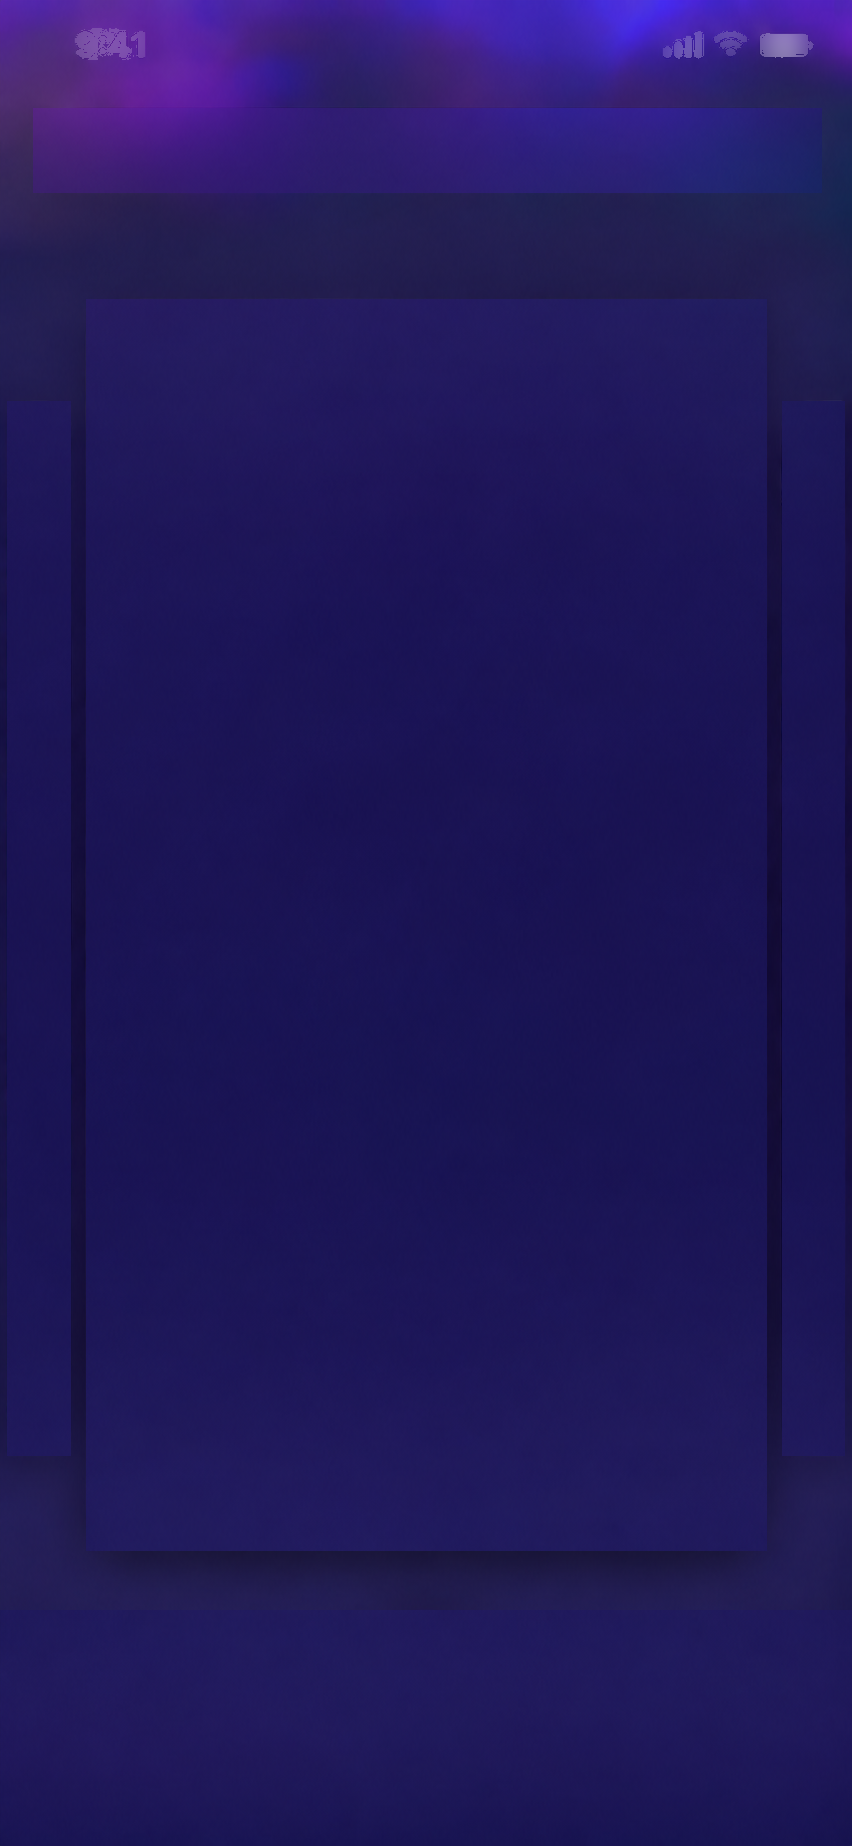
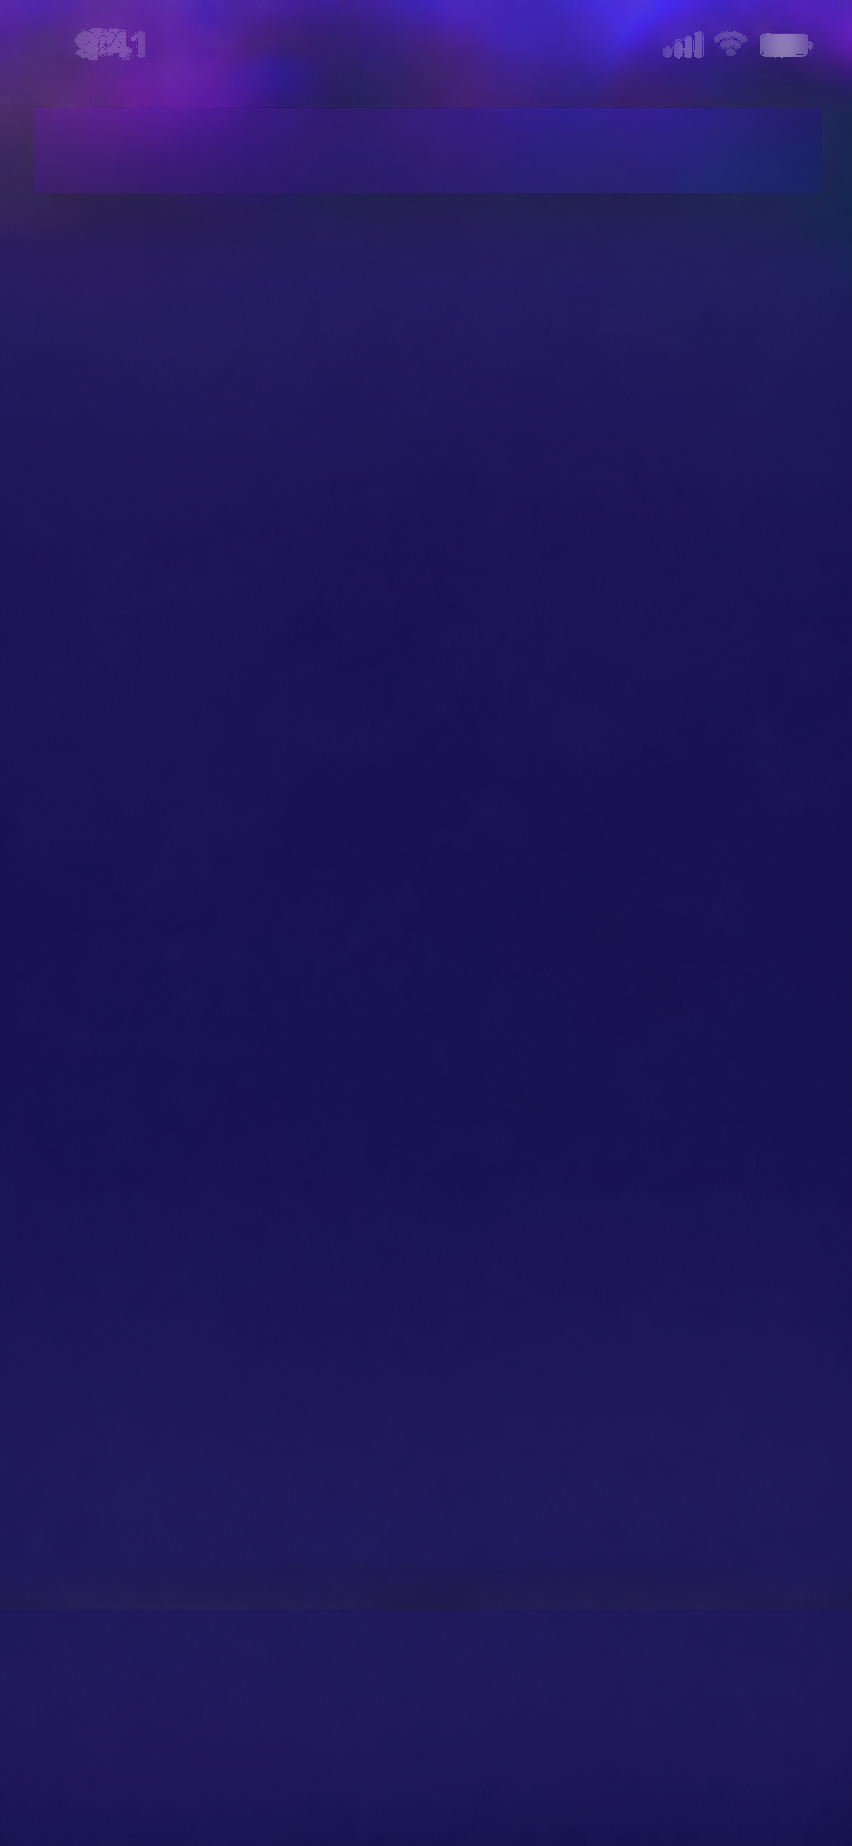
Remove legacy profile cards and distinguish availability states

diff --git a/index.html b/index.html
@@ -22,26 +22,7 @@
     <img id="placeholder" src="assets/placeholder.png" alt="" style="left:14.084507042%;top:7.042253521%;width:23.943661972%;height:2.221018418%">
     <input type="search" aria-label="搜索用户昵称" enterkeyhint="search" autocomplete="off">
   </form>
-  <section id="profiles" aria-label="推荐用户" aria-roledescription="轮播" class="original">
-    <img id="left-preview" src="assets/left-preview.png" alt="" style="left:0.821596244%;top:21.722643554%;width:7.511737089%;height:57.150595883%">
-    <img id="right-preview" src="assets/right-preview.png" alt="" style="left:91.784037559%;top:21.722643554%;width:7.394366197%;height:57.150595883%">
-    <article class="slide" data-position="center" data-name="小雨" aria-label="小雨，女，22岁，在线。声优、温柔。杭州市。喜欢散步，也喜欢听你讲故事。">
-    <img id="portrait" src="assets/portrait.png" alt="" style="left:10.093896714%;top:16.197183099%;width:79.929577465%;height:60.075839653%">
-    <img id="footer" src="assets/footer.png" alt="" style="left:10.093896714%;top:76.273022752%;width:79.929577465%;height:7.746478873%">
-    <img id="online" src="assets/online.png" alt="" style="left:12.793427230%;top:17.768147346%;width:18.075117371%;height:3.466955580%">
-    <img id="name" src="assets/name.png" alt="" style="left:15.140845070%;top:67.063921993%;width:10.093896714%;height:2.546045504%">
-    <img id="gender" src="assets/gender.png" alt="" style="left:27.112676056%;top:67.280606717%;width:3.873239437%;height:2.546045504%">
-    <img id="age" src="assets/age.png" alt="" style="left:32.746478873%;top:67.280606717%;width:9.389671362%;height:2.275189599%">
-    <img id="tag-voice" src="assets/tag-voice.png" alt="" style="left:14.906103286%;top:71.289274106%;width:12.206572770%;height:2.979414951%">
-    <img id="tag-gentle" src="assets/tag-gentle.png" alt="" style="left:27.934272300%;top:71.289274106%;width:11.971830986%;height:2.979414951%">
-    <img id="location" src="assets/location.png" alt="" style="left:15.023474178%;top:77.410617551%;width:4.460093897%;height:2.221018418%">
-    <img id="city" src="assets/city.png" alt="" style="left:20.774647887%;top:77.356446371%;width:12.206572770%;height:2.329360780%">
-    <img id="signature" src="assets/signature.png" alt="" style="left:14.906103286%;top:80.281690141%;width:50.234741784%;height:2.058504875%">
-    <img id="chat" src="assets/chat.png" alt="" style="left:75.000000000%;top:77.518959913%;width:11.384976526%;height:5.308775731%">
-      <button class="chat" data-action="chat" aria-label="与小雨聊天"></button>
-    </article>
-    <img id="chat-side" src="assets/chat-side.png" alt="" style="left:0.821596244%;top:74.593716143%;width:7.276995305%;height:3.575297941%">
-    <img id="pin-side" src="assets/pin-side.png" alt="" style="left:93.896713615%;top:75.243770314%;width:3.873239437%;height:2.004333694%">
+  <section id="profiles" aria-label="推荐用户" aria-roledescription="轮播">
     <button class="previous" data-action="previous" aria-label="上一个用户"></button>
     <button class="next" data-action="next" aria-label="下一个用户"></button>
   </section>

diff --git a/home.js b/home.js
@@ -10,32 +10,28 @@ function notify(action, detail) {
 }
 
 const samples = [
-  { nickname: '阿禾', age: 25, city: '上海市', tags: ['阅读', '咖啡'], signature: '想和你交换一本喜欢的书。', photo: 'assets/profile-0.jpg' },
-  { nickname: '晚晴', age: 27, city: '苏州市', tags: ['摄影', '散步'], signature: '周末一起去公园晒太阳吧。', photo: 'assets/profile-1.jpg' },
+  { nickname: '阿禾', age: 25, city: '上海市', status: '勿扰', signature: '想和你交换一本喜欢的书。', photo: 'assets/profile-0.jpg' },
+  { nickname: '晚晴', age: 27, city: '苏州市', status: '在线', signature: '周末一起去公园晒太阳吧。', photo: 'assets/profile-1.jpg' },
 ];
-const original = profiles.querySelector('article');
-const slides = [original];
+const slides = [];
 for (const person of samples) {
   const slide = document.createElement('article');
   slide.className = 'slide';
   slide.dataset.name = person.nickname;
-  slide.setAttribute('aria-label', person.nickname + '，勿扰，示例资料');
+  slide.setAttribute('aria-label', person.nickname + '，' + person.status + '，示例资料');
   slide.innerHTML = `
     <div class="profile-content">
       <img class="profile-photo" src="${person.photo}" alt="">
-      <span class="profile-status">勿扰</span>
+      <span class="profile-status" data-status="${person.status}">${person.status}</span>
       <div class="profile-info">
         <div><strong>${person.nickname}</strong><small>${person.age}岁</small></div>
-        <div class="profile-tags">${person.tags.map(tag => `<span>${tag}</span>`).join('')}</div>
+        <div class="profile-tags"><span>声优</span><span>温柔</span></div>
       </div>
       <div class="profile-foot">${person.city}<p>${person.signature}</p></div>
-    </div>`;
-  const chatImage = original.querySelector('#chat').cloneNode();
-  chatImage.removeAttribute('id');
-  const chat = original.querySelector('button').cloneNode();
-  chat.setAttribute('aria-label', '与' + person.nickname + '聊天');
-  slide.append(chatImage, chat);
-  original.before(slide);
+    </div>
+    <img class="chat-icon" src="assets/chat.png" alt="">
+    <button class="chat" data-action="chat" aria-label="与${person.nickname}聊天"></button>`;
+  profiles.append(slide);
   slides.push(slide);
 }
 
@@ -44,11 +40,9 @@ let timer;
 let start;
 const reducedMotion = matchMedia('(prefers-reduced-motion: reduce)');
 function render() {
-  profiles.classList.toggle('original', active === 0);
   slides.forEach((slide, index) => {
-    const offset = (index - active + slides.length) % slides.length;
-    slide.dataset.position = ['center', 'right', 'left'][offset];
-    slide.inert = offset !== 0;
+    slide.dataset.position = index === active ? 'center' : (index < active ? 'left' : 'right');
+    slide.inert = index !== active;
   });
 }
 function schedule() {

diff --git a/home.css b/home.css
@@ -58,13 +58,11 @@ nav button { top: 90.4%; width: 16%; height: 6.8%; }
   transition: transform .45s cubic-bezier(.22,.68,.18,1);
 }
 .slide[data-position="center"] { z-index: 1; }
-.slide[data-position="left"] { transform: translateX(-75.2%) scale(.84); }
-.slide[data-position="right"] { transform: translateX(75.2%) scale(.84); }
+.slide[data-position="left"] { transform: translateX(-100%); }
+.slide[data-position="right"] { transform: translateX(100%); }
 .slide[inert] button { pointer-events: none !important; }
 #profiles .previous, #profiles .next { z-index: 3; }
-#profiles img:is(#left-preview,#right-preview,#pin-side,#chat-side) { visibility: hidden; }
-#profiles.original img:is(#left-preview,#right-preview,#pin-side,#chat-side) { visibility: visible; }
-.original .slide[inert] { visibility: hidden; }
+.chat-icon { left: 75%; top: 77.519%; width: 11.385%; height: 5.309%; }
 .profile-content {
   position: absolute; left: 10.094%; top: 16.197%; width: 79.93%; height: 67.822%;
   border-radius: 3cqw; overflow: hidden; background: #47356e; color: white;
@@ -78,9 +76,13 @@ nav button { top: 90.4%; width: 16%; height: 6.8%; }
 }
 .profile-info strong { font-size: 4.8cqw; }
 .profile-info small { margin-left: 2cqw; font-size: 3.5cqw; }
-.profile-tags { display: flex; gap: 1.4cqw; margin-top: 2cqw; }
-.profile-tags span { border-radius: 4cqw; font-size: 3.1cqw; padding: .4cqw 2cqw; }
-.profile-tags span { background: #ffffff24; }
+.profile-tags { display: flex; gap: 1.45cqw; margin-top: 2cqw; }
+.profile-tags span {
+  box-sizing: border-box; min-width: 11.3cqw; height: 5.6cqw;
+  display: grid; place-items: center; border-radius: 99px;
+  border: 1px solid #ba86f4; background: #a76adc42;
+  color: #f6ebff; font-size: 3.15cqw; line-height: 1;
+}
 .profile-status {
   position: absolute;
   top: 2.48%;
@@ -104,6 +106,8 @@ nav button { top: 90.4%; width: 16%; height: 6.8%; }
   border-radius: 50%;
   background: #00f0f1;
 }
+.profile-status[data-status="勿扰"] { background: rgb(71 41 24 / 90%); color: #ffdfaa; }
+.profile-status[data-status="勿扰"]::before { background: #ffb64b; }
 .profile-foot { position: absolute; top: 88.6%; padding: 1.4cqw 16cqw 0 4.8cqw; font-size: 3.6cqw; }
 .profile-foot p { margin: .8cqw 0 0; font-size: 3.1cqw; color: #e2daee; }
 @media (prefers-reduced-motion: reduce) { .slide { transition: none; } }
